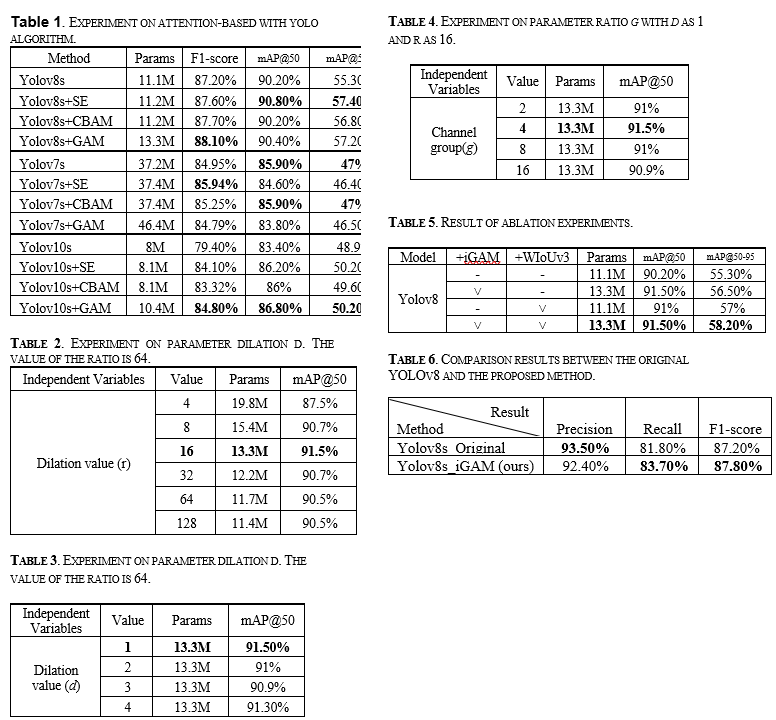
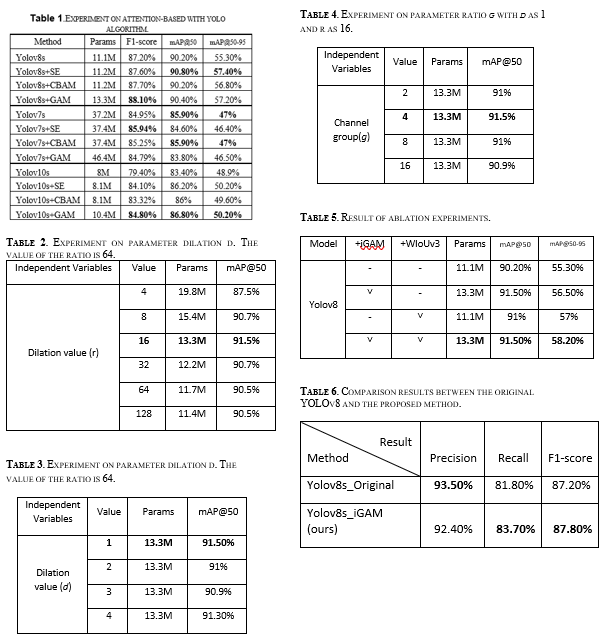
new change 2

Changed region(s): [[0.0, 0.0, 1.0, 1.0], [0.4776, 0.0, 0.8955, 0.2693]]

diff --git a/README.md b/README.md
@@ -71,7 +71,7 @@ The dataset is open for free use, raw data download at (https://github.com/Zijia
 </p>
 The full Demo is published at : https://www.youtube.com/watch?v=8uXFvbUzbX8
 
--- **Generalisation Across Environment Test.**
+- **Generalisation Across Environment Test.**
 
 <p align="center">
   <img src="Image/generalisation.png" />
